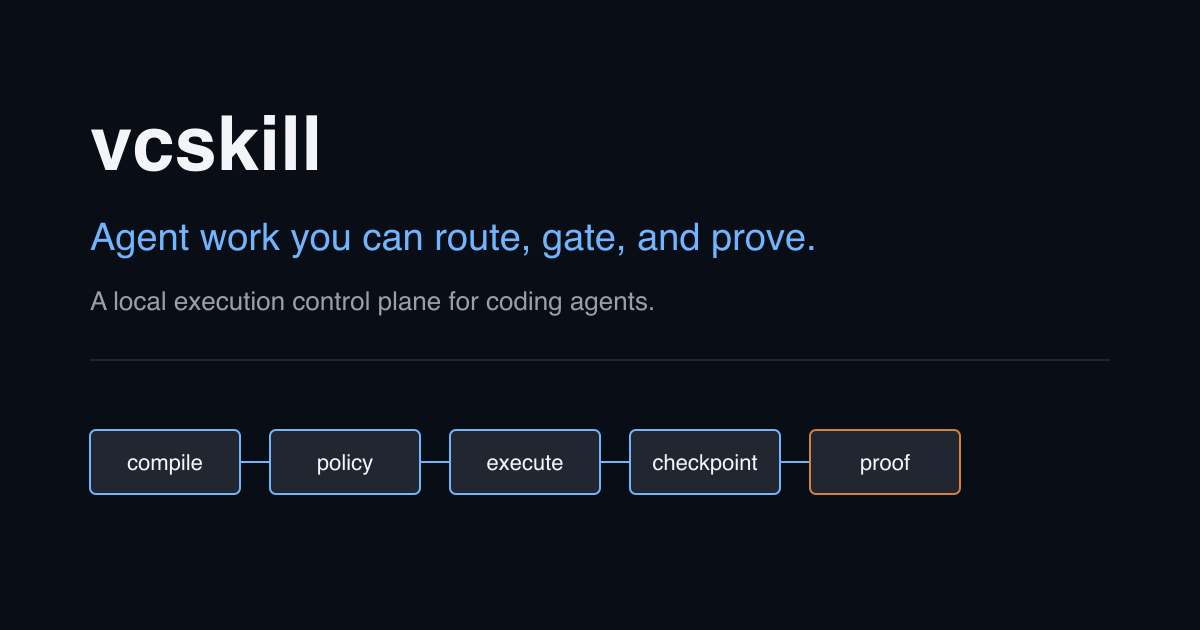
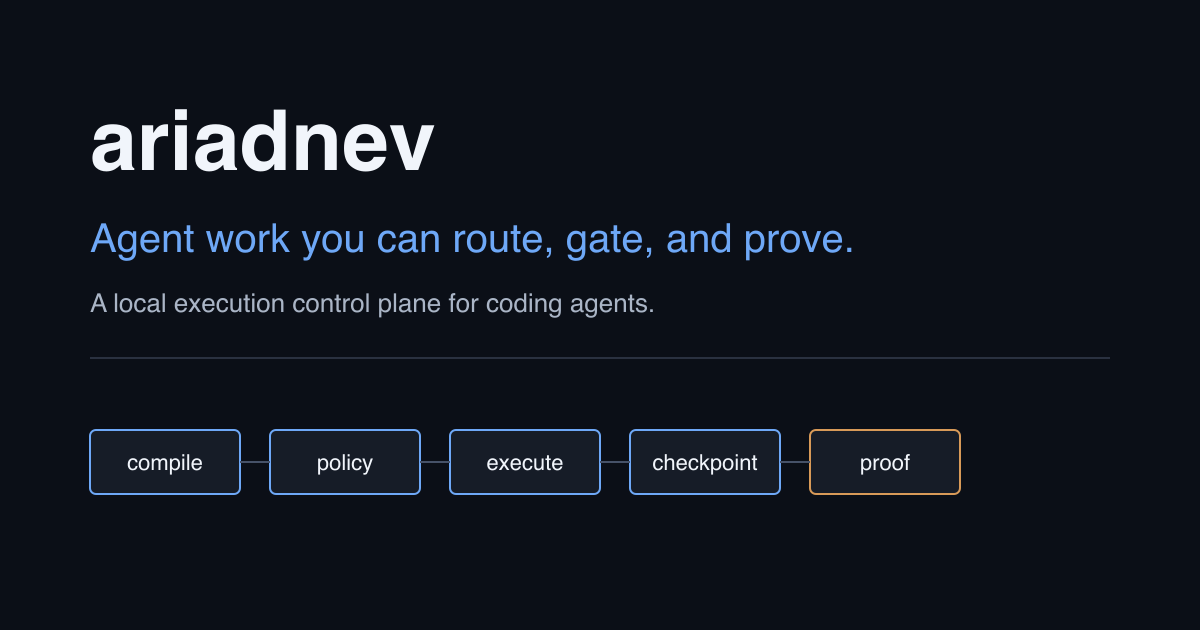
feat(site): rebrand the marketing site to ariadnev
Every identity fact now names ariadnev and the ariadnev.com hosts. Claims
cite pages on docs.ariadnev.com instead of the private source repository,
the release pin follows the ariadnev@<version> tag grammar and points at
the release-notes page, and the social card is re-rendered from a committed
SVG source. The CSP hash in _headers follows the new structured data.

diff --git a/apps/site/src/data/marketing-facts.ts b/apps/site/src/data/marketing-facts.ts
@@ -31,16 +31,30 @@ export interface SourcedClaim {
 // ------------------------------------------------------------------ identity
 
 export const SITE = {
-  origin: "https://vcskill.vchun.dev",
-  docsOrigin: "https://docs.vcskill.vchun.dev",
+  origin: "https://ariadnev.com",
+  docsOrigin: "https://docs.ariadnev.com",
   /** Canonical documentation entry point fixed by the approved architecture. */
-  docsEntry: "https://docs.vcskill.vchun.dev/en/stable/",
-  repository: "https://github.com/bavanchun/vcskill",
-  name: "vcskill",
-  title: "vcskill — a local execution control plane for coding agents",
+  docsEntry: "https://docs.ariadnev.com/en/stable/",
+  name: "ariadnev",
+  title: "ariadnev — a local execution control plane for coding agents",
   description:
     "Install one curated workflow kit across coding-agent targets, then run provider-neutral workflow graphs through a local, durable, policy-gated executor.",
   locale: "en",
+} as const;
+
+/**
+ * Documentation pages the marketing surface cites as sources. Each is a page
+ * the docs build emits from the release docs bundle; `tests/site` asserts every
+ * cited source is one of these, so a claim can never point at a page that
+ * does not exist. The source repository is private, so nothing links there.
+ */
+export const DOCS = {
+  installation: `${SITE.docsEntry}get-started/installation`,
+  graphExecution: `${SITE.docsEntry}concepts/graph-execution`,
+  evaluation: `${SITE.docsEntry}concepts/evaluation`,
+  workflows: `${SITE.docsEntry}reference/workflows`,
+  providers: `${SITE.docsEntry}reference/providers`,
+  releaseNotes: `${SITE.docsEntry}release-notes`,
 } as const;
 
 /**
@@ -67,7 +81,7 @@ export const PROMISE = {
   eyebrow: "Local execution control plane",
   heading: "Agent work you can route, gate, and prove.",
   lines: [
-    "vcskill installs one curated workflow kit across your coding-agent targets from a single local-first CLI.",
+    "ariadnev installs one curated workflow kit across your coding-agent targets from a single local-first CLI.",
     "Then it runs provider-neutral workflow graphs through a durable local executor that enforces policy before a provider ever acts.",
     "Every run is event-sourced, resumable, and answerable: which path executed, which gate held, what proof it produced.",
   ],
@@ -75,11 +89,11 @@ export const PROMISE = {
 
 export const INSTALL = {
   unixLabel: "macOS / Linux",
-  unixCommand: "curl -fsSL https://vcskill.vchun.dev/install | bash",
+  unixCommand: "curl -fsSL https://ariadnev.com/install | bash",
   windowsLabel: "Windows (PowerShell)",
-  windowsCommand: "irm https://vcskill.vchun.dev/install.ps1 | iex",
-  note: "The installer resolves the binary for your platform and verifies its sha256 before installing. The CLI is standalone and needs no Node runtime.",
-  source: "https://github.com/bavanchun/vcskill#install",
+  windowsCommand: "irm https://ariadnev.com/install.ps1 | iex",
+  note: "The installer resolves the binary for your platform, verifies its sha256, and links the short `av` alias. The CLI is standalone and needs no Node runtime.",
+  source: DOCS.installation,
 } as const;
 
 // ------------------------------------------------------------- execution map
@@ -94,8 +108,8 @@ export interface MapState {
 }
 
 /**
- * The five states of `vc run`, in execution order. Sourced from
- * docs/graph-execution-architecture.md, whose public pipeline is
+ * The five states of `av run`, in execution order. Sourced from the
+ * graph-execution documentation, whose public pipeline is
  * `GraphIRV1 -> compiler/lint -> policy -> event-sourced runner -> executor registry`.
  */
 export const EXECUTION_MAP: readonly MapState[] = [
@@ -125,7 +139,7 @@ export const EXECUTION_MAP: readonly MapState[] = [
     label: "Checkpoint",
     summary:
       "Durable state is written outside the inspected workspace, so a run survives interruption and can be resumed, inspected, or cancelled.",
-    produces: "A resumable run under ~/.vcskill/runs/",
+    produces: "A resumable run under ~/.ariadnev/runs/",
   },
   {
     id: "proof",
@@ -138,9 +152,9 @@ export const EXECUTION_MAP: readonly MapState[] = [
 
 export const EXECUTION_MAP_SOURCE: SourcedClaim = {
   claim:
-    "Compile, policy, and execute are the documented public pipeline of `vc run`; checkpoint and proof name the durable-state and resume behaviour the same document specifies.",
-  source: `${SITE.repository}/blob/main/docs/graph-execution-architecture.md`,
-  sourceLabel: "docs/graph-execution-architecture.md",
+    "Compile, policy, and execute are the documented public pipeline of `av run`; checkpoint and proof name the durable-state and resume behaviour the same document specifies.",
+  source: DOCS.graphExecution,
+  sourceLabel: "Graph execution",
   caveat:
     "The five names are this page's vocabulary for that behaviour, not five stages the runtime reports under these labels.",
 };
@@ -201,8 +215,8 @@ export const WORKFLOWS: readonly WorkflowNarrative[] = [
 
 export const WORKFLOW_SOURCE: SourcedClaim = {
   claim: "Each narrative describes the committed graph of the same name.",
-  source: `${SITE.repository}/tree/main/kit/workflows`,
-  sourceLabel: "kit/workflows/",
+  source: DOCS.workflows,
+  sourceLabel: "Workflow reference",
   caveat:
     "Graph structure is a static contract. It does not by itself prove that a given provider behaves correctly at run time.",
 };
@@ -232,8 +246,8 @@ export const PROVIDERS: readonly ProviderProjection[] = [
 
 export const PROVIDER_PRINCIPLE: SourcedClaim = {
   claim:
-    "Where a target path or format is not verified, vcskill skips the artifact and logs it in the install summary rather than writing a guess.",
-  source: `${SITE.repository}#provider-matrix`,
+    "Where a target path or format is not verified, ariadnev skips the artifact and logs it in the install summary rather than writing a guess.",
+  source: DOCS.providers,
   sourceLabel: "Provider matrix",
   caveat:
     "Coverage differs per provider and changes between releases. The generated matrix is the authority; this projection is not.",
@@ -258,8 +272,8 @@ export const EVIDENCE: readonly EvidenceEntry[] = [
   {
     kind: "contract",
     statement:
-      "Static graph contracts are machine-checked: `vc run <workflow> --validate` proves a canonical graph without probing any runtime.",
-    source: `${SITE.repository}/blob/main/docs/graph-execution-architecture.md`,
+      "Static graph contracts are machine-checked: `av run <workflow> --validate` proves a canonical graph without probing any runtime.",
+    source: DOCS.graphExecution,
     sourceLabel: "Graph execution architecture",
     caveat: "Validation proves the graph, not the behavior of a provider executing it.",
   },
@@ -267,7 +281,7 @@ export const EVIDENCE: readonly EvidenceEntry[] = [
     kind: "measured",
     statement:
       "Fixture suites exercise routing, trajectory, recovery, authority, and duplicate-effect behavior against the committed graphs.",
-    source: `${SITE.repository}/tree/main/packages/cli/src/eval`,
+    source: DOCS.evaluation,
     sourceLabel: "Evaluation and harness suites",
     caveat: "Fixtures cover the scenarios they encode; they are not a general correctness proof.",
   },
@@ -275,25 +289,25 @@ export const EVIDENCE: readonly EvidenceEntry[] = [
     kind: "measured",
     statement:
       "Capability-gated Codex and Claude Code probes report only the pinned runtime and model that actually ran.",
-    source: `${SITE.repository}/blob/main/docs/release-and-publish-guide.md`,
-    sourceLabel: "Release and publish guide",
+    source: DOCS.graphExecution,
+    sourceLabel: "Runtime pinning and probes",
     caveat: "A pinned-runtime result says nothing about a different runtime or a different model.",
   },
   {
     kind: "boundary",
     statement:
       "Active `safe-change-delivery` execution is denied in public builds until a real side-effect executor and approval input surface exist.",
-    source: `${SITE.repository}/blob/main/docs/graph-execution-architecture.md`,
+    source: DOCS.graphExecution,
     sourceLabel: "Graph execution architecture",
-    caveat: "vcskill does not simulate a successful mutation in order to look complete.",
+    caveat: "ariadnev does not simulate a successful mutation in order to look complete.",
   },
   {
     kind: "boundary",
     statement:
       "Run state is event-sourced outside the inspected workspace, and resume refuses to switch providers on a digest mismatch.",
-    source: `${SITE.repository}/blob/main/docs/graph-execution-architecture.md`,
+    source: DOCS.graphExecution,
     sourceLabel: "Durable state and privacy",
-    caveat: "Durability is local. There is no hosted control plane and no telemetry endpoint.",
+    caveat: "Durability is local. There is no hosted control plane, and telemetry is off by default with no ingest endpoint shipped.",
   },
 ];
 
@@ -313,7 +327,8 @@ const STABLE_SEMVER = /^(0|[1-9]\d*)\.(0|[1-9]\d*)\.(0|[1-9]\d*)$/;
 const ISO_INSTANT = /^\d{4}-\d{2}-\d{2}T\d{2}:\d{2}:\d{2}(?:\.\d+)?Z$/;
 
 /**
- * Read the optional machine-generated release pin, which Phase 10 produces.
+ * Read the optional machine-generated release pin, which the docs content
+ * build produces from the release docs bundle.
  *
  * Absent pin  -> `null`, and the release-specific row is omitted entirely.
  * Malformed   -> `null` in a normal build; throws in a release build, so a
@@ -322,7 +337,7 @@ const ISO_INSTANT = /^\d{4}-\d{2}-\d{2}T\d{2}:\d{2}:\d{2}(?:\.\d+)?Z$/;
  * A guessed or defaulted version is never returned under any condition.
  */
 export function loadReleasePin(
-  { path = join(repoRoot, "releases", "vcskill.json"), releaseMode = process.env.VCSKILL_RELEASE_MODE === "1" } = {},
+  { path = join(repoRoot, "releases", "ariadnev.json"), releaseMode = process.env.ARIADNEV_RELEASE_MODE === "1" } = {},
 ): ReleasePin | null {
   let raw: string;
   try {
@@ -348,9 +363,10 @@ export function loadReleasePin(
   const { version, tag, releaseUrl, publishedAt } = record;
 
   if (typeof version !== "string" || !STABLE_SEMVER.test(version)) return reject("version is not a stable semver");
-  if (tag !== `v${version}`) return reject("tag does not match the version");
-  if (typeof releaseUrl !== "string" || !releaseUrl.startsWith(`${SITE.repository}/releases/`)) {
-    return reject("releaseUrl is not a release URL of this repository");
+  if (tag !== `ariadnev@${version}`) return reject("tag does not match the version");
+  // Release notes live on the documentation host; the source repository is private.
+  if (typeof releaseUrl !== "string" || !releaseUrl.startsWith(`${SITE.docsOrigin}/`)) {
+    return reject("releaseUrl is not on the documentation host");
   }
   if (typeof publishedAt !== "string" || !ISO_INSTANT.test(publishedAt)) return reject("publishedAt is not an ISO instant");
 

diff --git a/tests/site/release-pin.test.ts b/tests/site/release-pin.test.ts
@@ -1,7 +1,7 @@
 // Release-pin contract gate.
 //
 // The pin is the one piece of mutable identity the marketing page is allowed to
-// show, and Phase 10 owns writing it. The rule that matters is negative: a
+// show, and the docs content build owns writing it. The rule that matters is negative: a
 // missing or malformed pin must never become a guessed version on a public
 // page. All four branches are exercised here against temporary files, so no
 // fake release data is ever committed.
@@ -16,10 +16,10 @@ let directory: string;
 let path: string;
 
 const VALID = {
-  version: "0.11.0",
-  tag: "v0.11.0",
-  releaseUrl: "https://github.com/bavanchun/vcskill/releases/tag/v0.11.0",
-  publishedAt: "2026-08-09T12:00:00Z",
+  version: "1.0.0",
+  tag: "ariadnev@1.0.0",
+  releaseUrl: "https://docs.ariadnev.com/en/1.0.0/release-notes",
+  publishedAt: "2026-08-16T00:42:42Z",
 };
 
 const write = (value: unknown): void => {
@@ -27,8 +27,8 @@ const write = (value: unknown): void => {
 };
 
 beforeEach(() => {
-  directory = mkdtempSync(join(tmpdir(), "vcskill-pin-"));
-  path = join(directory, "vcskill.json");
+  directory = mkdtempSync(join(tmpdir(), "ariadnev-pin-"));
+  path = join(directory, "ariadnev.json");
 });
 
 afterEach(() => {
@@ -62,8 +62,8 @@ describe("a malformed pin", () => {
     ["a prerelease version", { ...VALID, version: "1.0.0-rc.1", tag: "v1.0.0-rc.1" }],
     ["a version with a leading zero", { ...VALID, version: "01.0.0", tag: "v01.0.0" }],
     ["a tag that disagrees with the version", { ...VALID, tag: "v0.11.1" }],
-    ["a release URL on another repository", { ...VALID, releaseUrl: "https://github.com/attacker/vcskill/releases/tag/v0.11.0" }],
-    ["a release URL that is not a release", { ...VALID, releaseUrl: "https://github.com/bavanchun/vcskill/issues/1" }],
+    ["a release URL on another host", { ...VALID, releaseUrl: "https://docs.attacker.example/en/1.0.0/release-notes" }],
+    ["a release URL on the marketing host instead of the docs host", { ...VALID, releaseUrl: "https://ariadnev.com/en/1.0.0/release-notes" }],
     ["a non-instant publish date", { ...VALID, publishedAt: "2026-08-09" }],
     ["a missing version", { tag: "v0.11.0", releaseUrl: VALID.releaseUrl, publishedAt: VALID.publishedAt }],
   ];
@@ -83,16 +83,16 @@ describe("a malformed pin", () => {
 
 describe("release mode", () => {
   it("is driven by the environment when the caller does not say", () => {
-    const previous = process.env["VCSKILL_RELEASE_MODE"];
+    const previous = process.env["ARIADNEV_RELEASE_MODE"];
     try {
       write("{ broken");
-      process.env["VCSKILL_RELEASE_MODE"] = "1";
+      process.env["ARIADNEV_RELEASE_MODE"] = "1";
       expect(() => loadReleasePin({ path })).toThrow(ReleasePinError);
-      process.env["VCSKILL_RELEASE_MODE"] = "0";
+      process.env["ARIADNEV_RELEASE_MODE"] = "0";
       expect(loadReleasePin({ path })).toBeNull();
     } finally {
-      if (previous === undefined) delete process.env["VCSKILL_RELEASE_MODE"];
-      else process.env["VCSKILL_RELEASE_MODE"] = previous;
+      if (previous === undefined) delete process.env["ARIADNEV_RELEASE_MODE"];
+      else process.env["ARIADNEV_RELEASE_MODE"] = previous;
     }
   });
 });

diff --git a/tests/site/static-output.test.ts b/tests/site/static-output.test.ts
@@ -45,8 +45,8 @@ describe("build shape", () => {
 
 describe("metadata", () => {
   it("declares a canonical URL on the production host", () => {
-    expect(html).toContain('<link rel="canonical" href="https://vcskill.vchun.dev/">');
-    expect(notFound).toContain('<link rel="canonical" href="https://vcskill.vchun.dev/404">');
+    expect(html).toContain('<link rel="canonical" href="https://ariadnev.com/">');
+    expect(notFound).toContain('<link rel="canonical" href="https://ariadnev.com/404">');
   });
 
   it("declares language, title, and description", () => {
@@ -59,7 +59,7 @@ describe("metadata", () => {
     for (const tag of [
       'property="og:type" content="website"',
       'property="og:url"',
-      'property="og:image" content="https://vcskill.vchun.dev/social-card.png"',
+      'property="og:image" content="https://ariadnev.com/social-card.png"',
       'property="og:image:width" content="1200"',
       'property="og:image:height" content="630"',
       'property="og:image:alt"',
@@ -74,7 +74,7 @@ describe("metadata", () => {
     expect(match).not.toBeNull();
     const data = JSON.parse(match![1]!) as Record<string, unknown>;
     expect(data["@type"]).toBe("SoftwareApplication");
-    expect(data["url"]).toBe("https://vcskill.vchun.dev");
+    expect(data["url"]).toBe("https://ariadnev.com");
     for (const forbidden of ["aggregateRating", "review", "offers", "price", "interactionStatistic"]) {
       expect(data, `structured data must not assert ${forbidden}`).not.toHaveProperty(forbidden);
     }
@@ -86,7 +86,7 @@ describe("crawl policy", () => {
   const sitemap = readFileSync(join(DIST_DIR, "sitemap.xml"), "utf8");
 
   it("points crawlers at the sitemap and away from machine routes", () => {
-    expect(robots).toContain("Sitemap: https://vcskill.vchun.dev/sitemap.xml");
+    expect(robots).toContain("Sitemap: https://ariadnev.com/sitemap.xml");
     for (const route of ["/install", "/install.sh", "/install.ps1", "/version", "/download/"]) {
       expect(robots).toContain(`Disallow: ${route}`);
     }
@@ -97,7 +97,7 @@ describe("crawl policy", () => {
     // Indexable documents are every generated page except the noindex 404.
     const indexable = DIST.pages
       .filter((page) => page !== "/404.html")
-      .map((page) => `https://vcskill.vchun.dev${page.replace(/index\.html$/, "")}`);
+      .map((page) => `https://ariadnev.com${page.replace(/index\.html$/, "")}`);
     expect(listed.sort()).toEqual(indexable.sort());
   });
 });
@@ -109,7 +109,7 @@ describe("no runtime dependency", () => {
       for (const url of urls) {
         const { host } = new URL(url);
         expect(
-          ["vcskill.vchun.dev", "docs.vcskill.vchun.dev", "github.com", "schema.org"].includes(host),
+          ["ariadnev.com", "docs.ariadnev.com", "schema.org"].includes(host),
           `unexpected external host: ${url}`,
         ).toBe(true);
       }

diff --git a/tests/site/structure.test.ts b/tests/site/structure.test.ts
@@ -61,16 +61,16 @@ describe("calls to action", () => {
   it("exposes install and docs from the header, within one interaction", () => {
     const header = html.slice(html.indexOf("<header"), html.indexOf("</header>"));
     expect(header).toContain('href="#install"');
-    expect(header).toContain("https://docs.vcskill.vchun.dev/en/stable/");
+    expect(header).toContain("https://docs.ariadnev.com/en/stable/");
   });
 
   it("shows a literal install command in the first section", () => {
     const promise = html.slice(0, html.indexOf('id="execution-map"'));
-    expect(promise).toContain("curl -fsSL https://vcskill.vchun.dev/install | bash");
+    expect(promise).toContain("curl -fsSL https://ariadnev.com/install | bash");
   });
 
   it("offers both platform commands at the final action", () => {
-    expect(html).toContain("irm https://vcskill.vchun.dev/install.ps1 | iex");
+    expect(html).toContain("irm https://ariadnev.com/install.ps1 | iex");
   });
 });
 

diff --git a/tests/site/progressive-enhancement.test.ts b/tests/site/progressive-enhancement.test.ts
@@ -19,7 +19,7 @@ const VIEWPORTS = [320, 375, 390, 768, 1280, 1440];
 /** Content that must be present before any script runs. */
 const ESSENTIAL = [
   "Agent work you can route, gate, and prove.",
-  "curl -fsSL https://vcskill.vchun.dev/install | bash",
+  "curl -fsSL https://ariadnev.com/install | bash",
   "safe-change-delivery",
   "bugfix-delivery",
   "read-only-delivery",
@@ -191,7 +191,7 @@ describe("keyboard and clipboard", () => {
 
     // The literal command is untouched and still selectable.
     expect(await page.locator("#final-install-unix").innerText()).toBe(
-      "curl -fsSL https://vcskill.vchun.dev/install | bash",
+      "curl -fsSL https://ariadnev.com/install | bash",
     );
     await context.close();
   });
